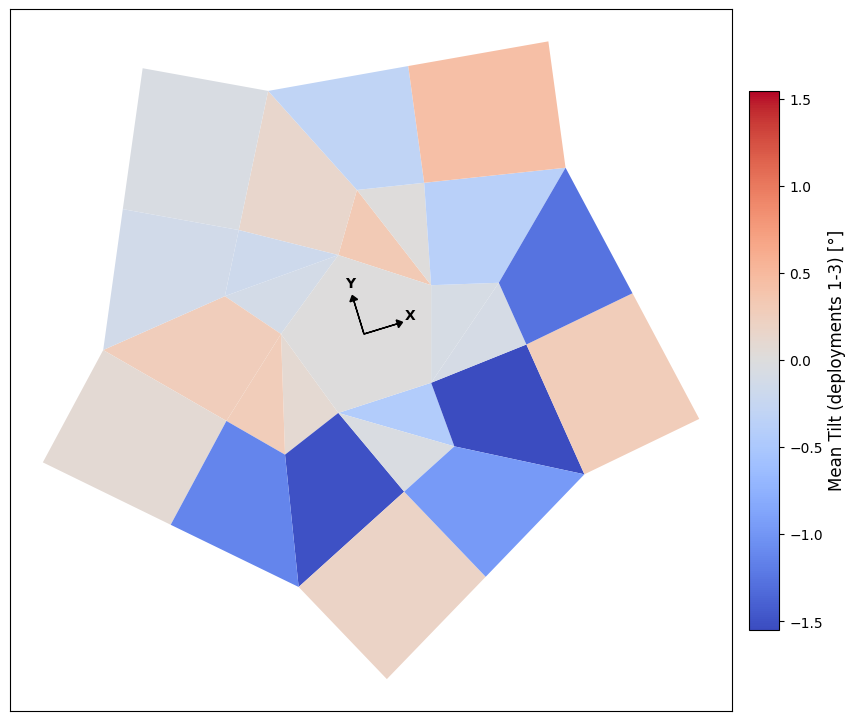
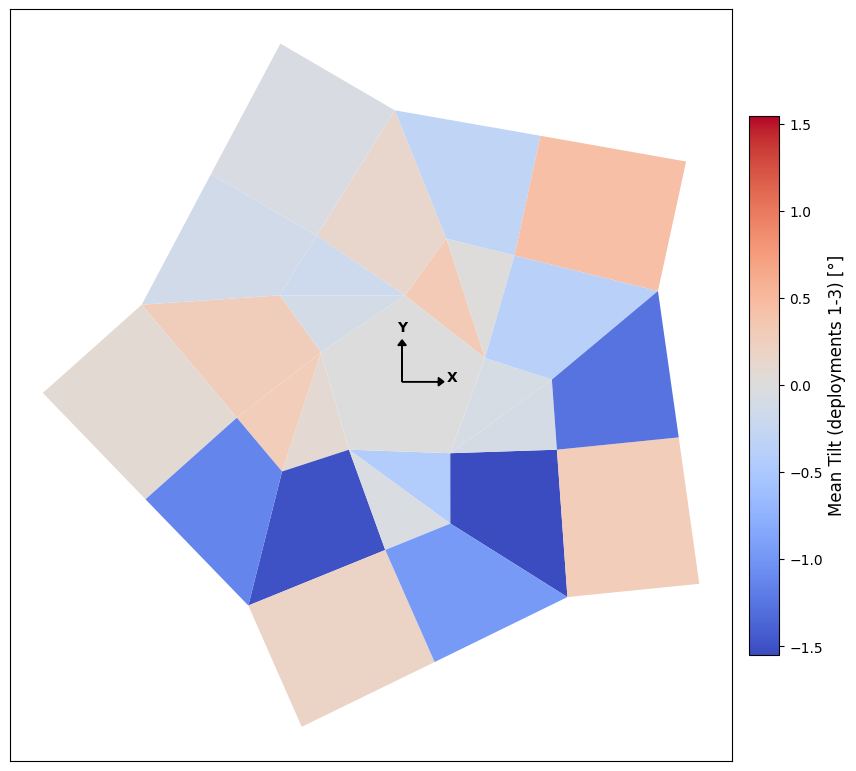
made some tweaks

diff --git a/plot_tip_tilt_flasher.py b/plot_tip_tilt_flasher.py
@@ -187,6 +187,13 @@ def plot_flasher_heatmap(
     assignments = fold["edges_assignment"]
     faces       = fold["faces_vertices"]
 
+    # After loading vertices, rotate the entire geometry
+    rotation_deg = -20  # adjust until oriented correctly ROTATE WHOLE FLASHER HERE
+    angle = np.radians(rotation_deg)
+    rot = np.array([[np.cos(angle), -np.sin(angle)],
+                    [np.sin(angle),  np.cos(angle)]])
+    vertices = vertices @ rot.T
+
     # 2. Identify U edges (internal diagonals)
     u_edges = {
         tuple(sorted(e))
@@ -244,7 +251,7 @@ def plot_flasher_heatmap(
 
     # Coordinate frame settings — adjust these
     arrow_length = 0.3      # length of each axis arrow
-    rotation_deg = 17      # rotate the frame (degrees) — adjust until correct
+    rotation_deg = 0.0      # rotate the frame (degrees) — adjust until correct ROTATE COORD FRAME HERE
 
     angle = np.radians(rotation_deg)
     rot = np.array([[np.cos(angle), -np.sin(angle)],
